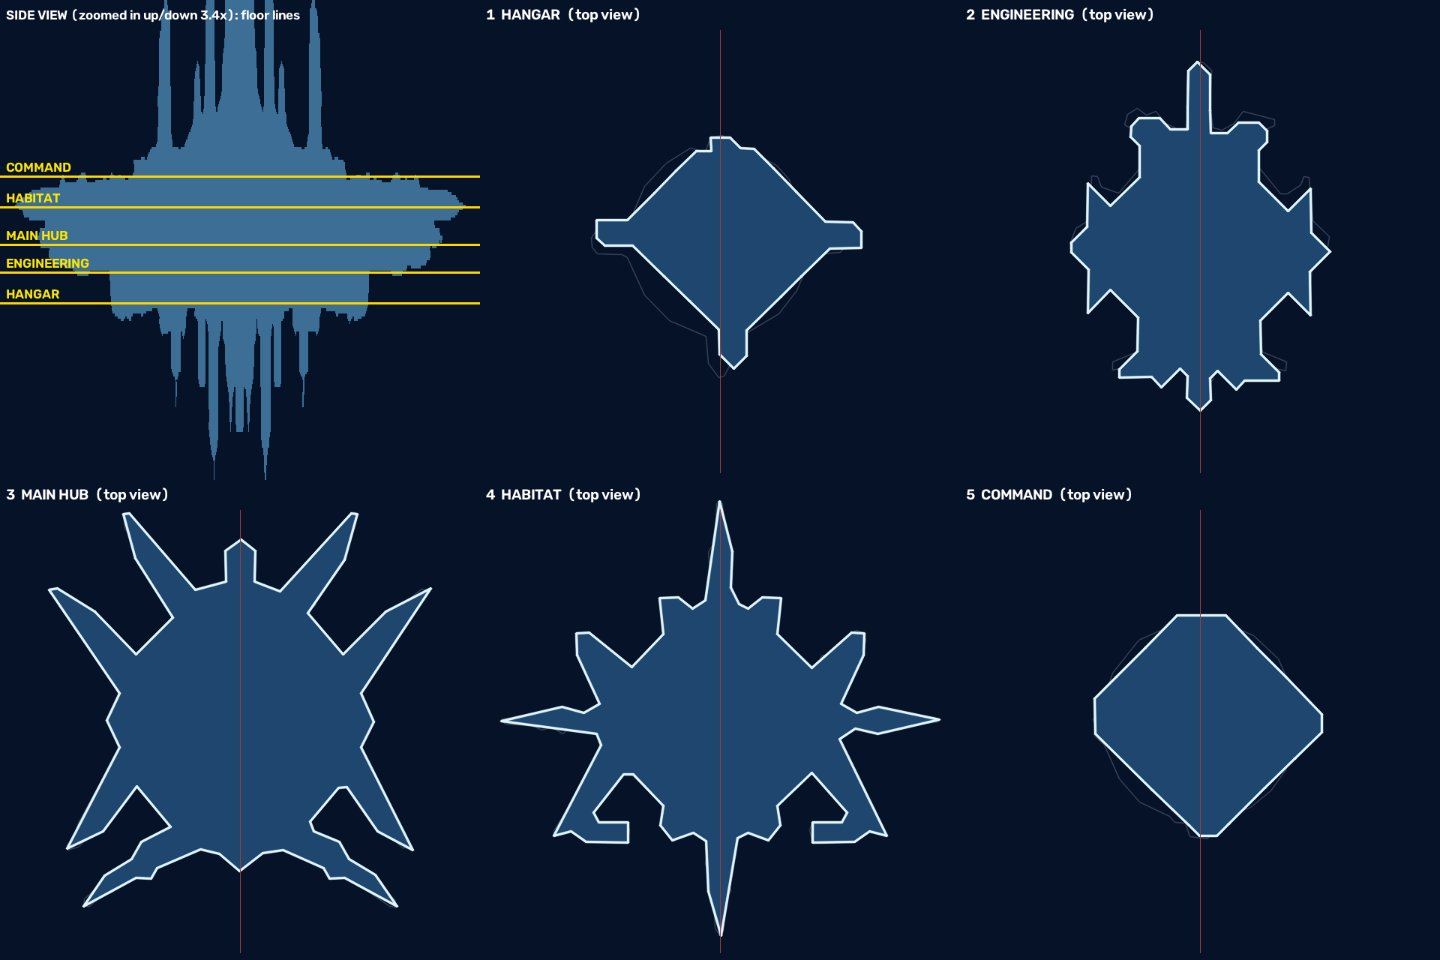
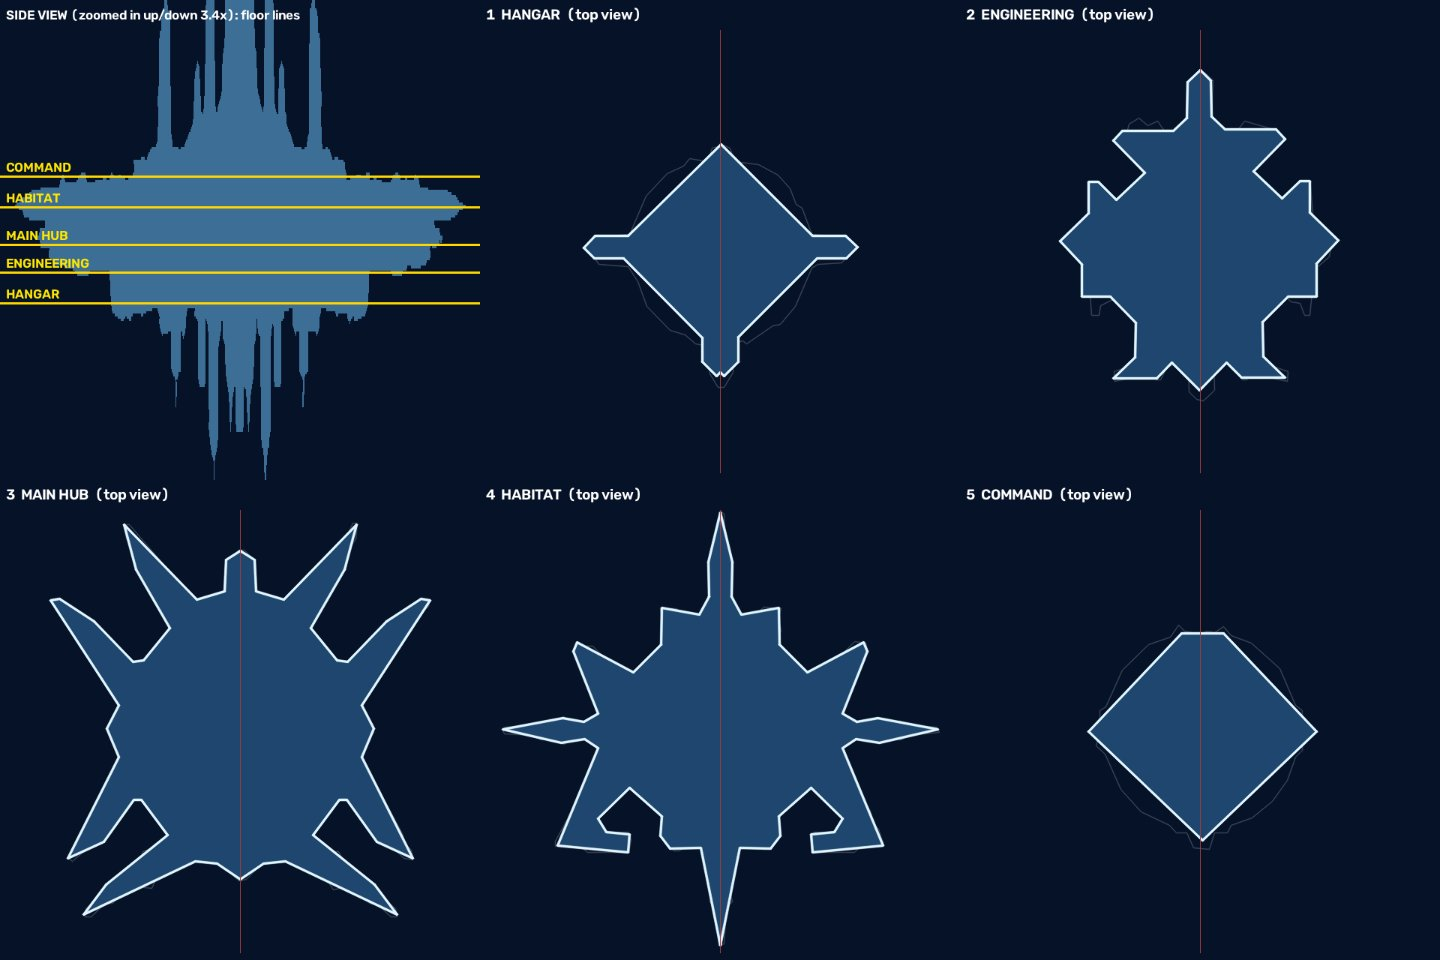
v13.194: station silhouettes centred, mirrored, smoothed
Claude-Session: https://claude.ai/code/session_01SinQW9aeLHqCBjq9e21Gyo

diff --git a/web_shell.html b/web_shell.html
@@ -4,8 +4,8 @@
 <meta charset="utf-8">
 <meta name="viewport" content="width=device-width,initial-scale=1,maximum-scale=1,user-scalable=no,viewport-fit=cover">
 <meta name="theme-color" content="#f6f9fc">
-<meta name="hl-version" content="v13.193">
-<title>Homelancer Digital v13.193</title>
+<meta name="hl-version" content="v13.194">
+<title>Homelancer Digital v13.194</title>
 <style>
 *{box-sizing:border-box}
 html,body{margin:0;width:100%;height:100%;background:#f6f9fc;color:#0e2f5a;font:16px system-ui,sans-serif;overflow:hidden;touch-action:none}

diff --git a/tools/trace/station_silhouette.py b/tools/trace/station_silhouette.py
@@ -52,6 +52,16 @@ def snap45(poly, eps):
     return out if out.area > 0.6 * poly.area else p
 
 
+def mirror_poly(p, ax):
+    """exactly symmetric: the left half and its mirror"""
+    from shapely.geometry import box
+    from shapely import affinity
+    left = p.intersection(box(-1e4, -1e4, ax, 1e4))
+    whole = left.union(affinity.scale(left, -1, 1, origin=(ax, 0))).buffer(0.5, join_style=2).buffer(-0.5, join_style=2)
+    if isinstance(whole, MultiPolygon): whole = max(whole.geoms, key=lambda g: g.area)
+    return whole
+
+
 def build(model):
     S = json.load(open(os.path.join(SP.OUT, "stations.json")))
     st = next(s for s in S if s["model"] == model)
@@ -67,11 +77,23 @@ def build(model):
     lo_i, hi_i = int(body.min()), int(body.max())
     idx = [int(round(lo_i + (hi_i - lo_i) * k / 4)) for k in range(5)]
     floors = []
+    # v13.194 (owner: "center it, then mirror it, fix the choppiness"): the station's middle line is the centre of its
+    # MAIN HUB slice (not the picture's middle); every floor is shifted onto it, mirrored, smoothed, then straightened
+    hub = SP.clean(masks[idx[2]])
+    ys, xs = np.nonzero(hub)
+    cx = float((xs.min() + xs.max()) / 2.0); cy = float((ys.min() + ys.max()) / 2.0)
+    shift = np.float32([[1, 0, ax - cx], [0, 1, N / 2.0 - cy]])
     for k, i in enumerate(idx):
-        m = mirror_mask(SP.clean(masks[i]), ax)
-        m = cv2.morphologyEx(m, cv2.MORPH_CLOSE, cv2.getStructuringElement(cv2.MORPH_ELLIPSE, (21, 21)))
+        m0 = cv2.warpAffine(SP.clean(masks[i]), shift, (N, N), flags=cv2.INTER_NEAREST)
+        m = mirror_mask(m0, ax)
+        m = cv2.GaussianBlur(m, (0, 0), 3.5)
+        m = np.where(m > 110, 255, 0).astype(np.uint8)
+        m = cv2.morphologyEx(m, cv2.MORPH_CLOSE, cv2.getStructuringElement(cv2.MORPH_ELLIPSE, (31, 31)))
+        m = cv2.morphologyEx(m, cv2.MORPH_OPEN, cv2.getStructuringElement(cv2.MORPH_ELLIPSE, (11, 11)))
+        m = mirror_mask(m, ax)
         poly = SP.outline(m)
-        clean = snap45(poly, 6.0)
+        clean = snap45(poly, 7.0)
+        clean = snap45(mirror_poly(clean, ax), 4.0)
         floors.append({"name": NAMES[k], "slice": i, "row": hrow(i), "outline": mapping(clean), "area_px": round(clean.area)})
     out = os.path.join(SP.OUT, model)
     os.makedirs(out, exist_ok=True)
@@ -97,7 +119,7 @@ def build(model):
     from shapely.geometry import shape
     for k, f in enumerate(floors):
         t = np.zeros((N, N, 3), np.uint8); t[:] = (40, 18, 6)
-        raw = SP.outline(SP.clean(masks[f["slice"]]))
+        raw = SP.outline(cv2.warpAffine(SP.clean(masks[f["slice"]]), shift, (N, N), flags=cv2.INTER_NEAREST))
         if raw is not None: cv2.polylines(t, [np.round(np.array(raw.exterior.coords)).astype(np.int32)], True, (90, 70, 60), 1, cv2.LINE_AA)
         g = shape(f["outline"])
         cv2.fillPoly(t, [np.round(np.array(g.exterior.coords)).astype(np.int32)], (110, 70, 30))

diff --git a/docs/V1.2_BUILD.md b/docs/V1.2_BUILD.md
@@ -2766,6 +2766,9 @@ the camera automatically does a zoom to that section ... helmet, body, lower bod
 - The boarding engine: decks are named by the layout (Boarding.deck_name / deck_names / deck_of_piece: five, not just upper / main / lower); a lift can stop at any number of decks (shaft walls between each pair, roofs / floors open along it). In a lift with more than two stops the HUD shows ▲ <deck> and ▼ <deck>; COMMAND needs the RED card. Two-deck fleet lifts still run by themselves.
 - HL_STBOARD 13/13: five decks; in the lift on the hub deck up and down; up to the habitat; COMMAND refused without RED, then reached; down to the hangar.
 
+## v13.194 Station silhouettes centred, mirrored, smoothed
+- Owner: "they look choppy ... centre it, then mirror it, fix the choppiness, more accurate lines". station_silhouette.py: every floor shifted onto the MAIN HUB slice's centre, mirrored, blurred and re-thresholded, closed / opened, simplified (7 px), straightened to 0 / 45 / 90 degrees and made exactly symmetric (left half + its mirror). Plan only.
+
 ## v13.193 Station formula step 1: clean floor silhouettes from the GLB (Liberty Hub)
 - Owner: "why does the hangar have that shape when the side view has nothing there? ... more accuracy where the intersections are ... cleaner lines and mirror it: a Tripo silhouette isn't clean".
 - tools/trace/station_silhouette.py: 96 slices; the five floors go inside the station's solid body (where the side view runs nearly all the way across and the slice is big), not in the spikes under it; each floor mirrored about the middle line, small bumps closed, edges redrawn straight at 0 / 45 / 90 degrees. Writes stations/<model>/silhouettes.json + silhouettes.jpg (side view zoomed on the floor lines + the five top views, the raw slice faint behind). Plan only.
